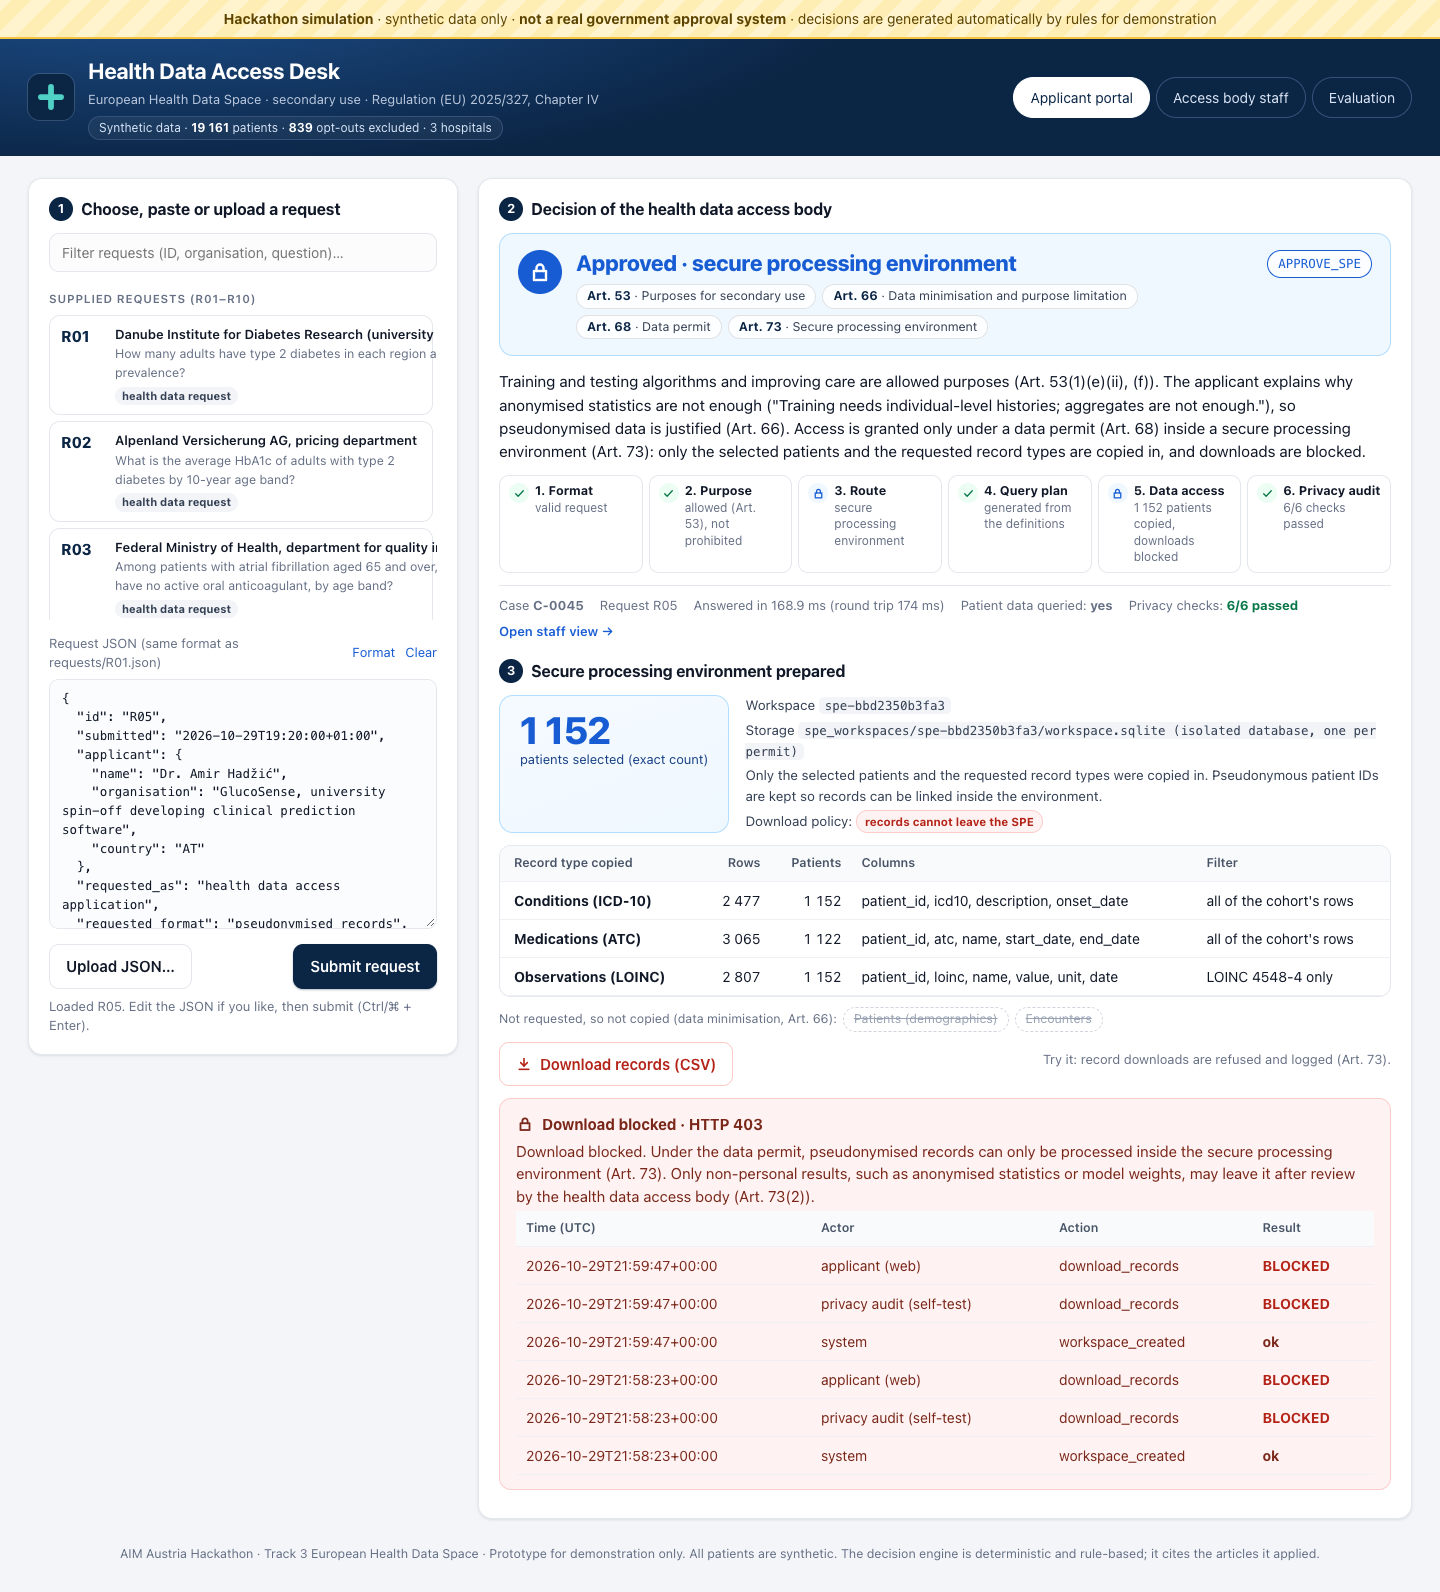
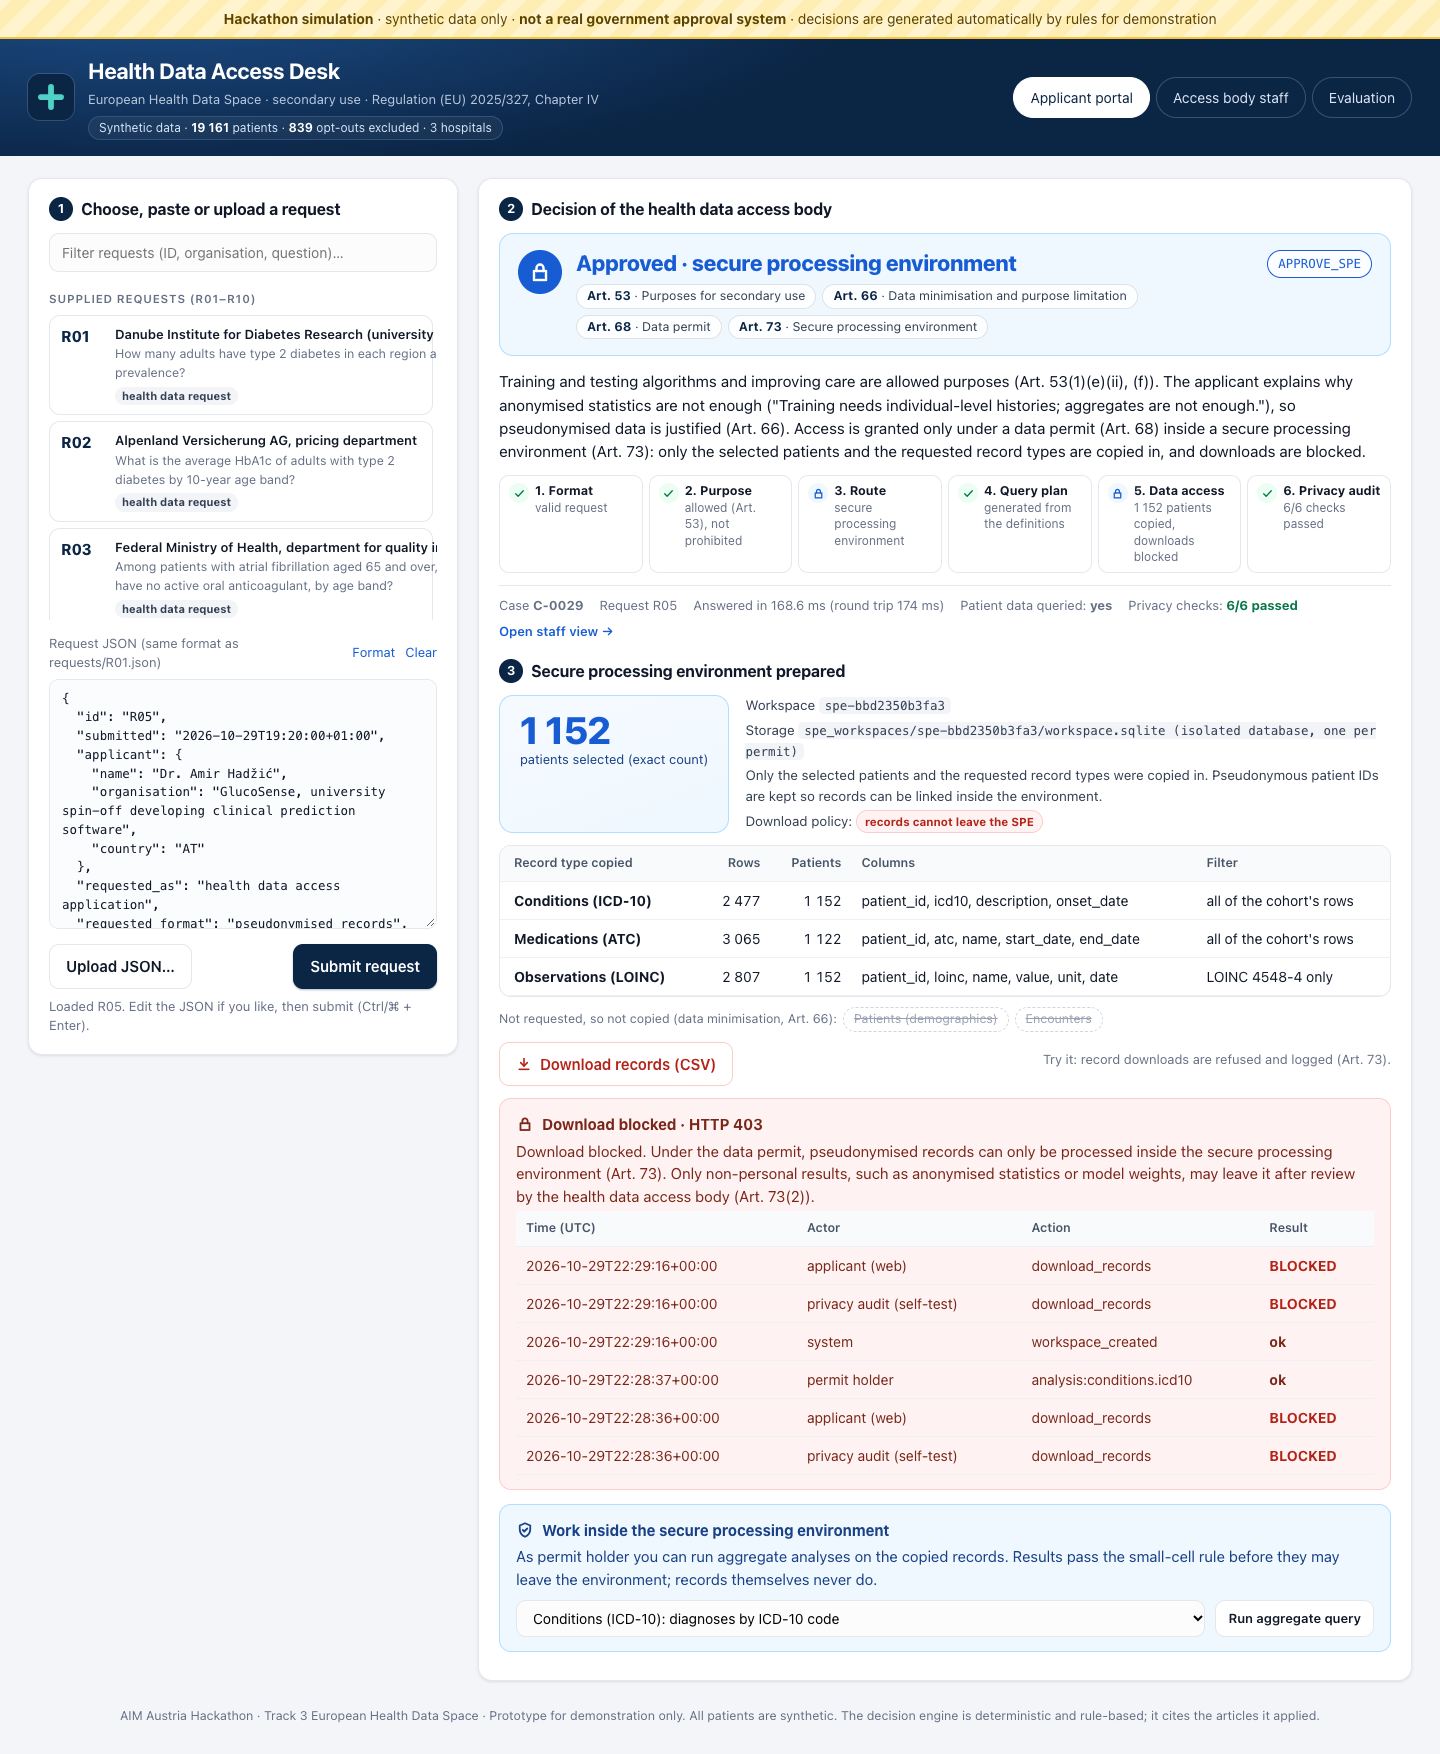
Add SPE analysis console to the UI, show one decimal for means, update docs
Generated with [Devin](https://devin.ai)

Changed region(s): [[0.0, 0.0, 1.0, 0.9849], [0.2188, 0.9541, 0.3125, 0.9849], [0.0938, 0.9541, 0.1562, 0.9849]]

diff --git a/track3-ehds/web/app.js b/track3-ehds/web/app.js
@@ -336,13 +336,14 @@ function renderStatistics(root, res, view) {
   for (const c of res.columns) {
     if (c.type === "count") max[c.id] = Math.max(1, ...res.rows.map(r => typeof r.cells[c.id] === "number" ? r.cells[c.id] : 0));
   }
+  const show = (c, v) => (c.type === "count" ? fmt(v) : Number(v).toFixed(1));  // one decimal, also for 7.0
   const cell = (c, v) => {
     if (isMasked(v)) return el("td", { class: "num" }, masked(v));
-    if (c.type !== "count" && c.type !== "percent") return el("td", { class: "num", text: fmt(v) });
+    if (c.type !== "count" && c.type !== "percent") return el("td", { class: "num", text: show(c, v) });
     const width = c.type === "percent" ? Math.min(100, v) : (100 * v) / max[c.id];
     const bar = el("span", { class: `bar${c.type === "percent" ? " pct" : ""}` });
     bar.style.width = `${Math.max(2, width)}%`;
-    return el("td", { class: "num" }, el("div", { class: "cellbar" }, el("span", { class: "track" }, bar), el("span", { text: fmt(v) })));
+    return el("td", { class: "num" }, el("div", { class: "cellbar" }, el("span", { class: "track" }, bar), el("span", { text: show(c, v) })));
   };
   const head = el("tr", {},
     (res.dimensions.length ? res.dimensions : [{ label: "Group" }]).map(d => el("th", { text: d.label })),
@@ -419,6 +420,37 @@ function renderSpe(root, res) {
   } }, icon("download"), "Download records (CSV)");
   root.append(el("div", { class: "actions" }, btn,
     el("span", { class: "hint", text: "Try it: record downloads are refused and logged (Art. 73)." })), out);
+
+  // aggregate analysis inside the SPE by the permit holder; only the disclosure-checked output may leave
+  const ANALYSES = [["conditions", "icd10", "diagnoses by ICD-10 code"], ["medications", "atc", "prescriptions by ATC code"],
+    ["observations", "loinc", "measurements by LOINC code"], ["encounters", "type", "encounters by type"],
+    ["encounters", "primary_icd10", "stays by main diagnosis"], ["encounters", "data_holder", "encounters by hospital"],
+    ["patients", "sex", "patients by sex"], ["patients", "region", "patients by region"]];
+  const options = ANALYSES.filter(([t]) => t in res.tables);
+  if (!options.length || !res.permit_token) return;
+  const select = el("select", { id: "spe-analysis", class: "search" },
+    options.map(([t, c, label]) => el("option", { value: `${t}.${c}`, text: `${TABLE_TITLES[t]}: ${label}` })));
+  const resultBox = el("div", { id: "spe-analysis-result" });
+  const run = el("button", { class: "btn secondary small", id: "spe-analyse-btn", type: "button", onclick: async () => {
+    const [table, column] = select.value.split(".");
+    const r = await api(`/api/spe/${res.workspace_id}/analyse`, { method: "POST",
+      headers: { "Content-Type": "application/json", "X-Permit-Token": res.permit_token }, body: JSON.stringify({ table, column }) });
+    if (!r.ok) { resultBox.replaceChildren(el("div", { class: "callout amber" }, el("p", { text: (r.body && r.body.message) || `HTTP ${r.status}` }))); return; }
+    const rows = r.body.rows;
+    resultBox.replaceChildren(el("div", { class: "table-wrap" }, el("table", { id: "spe-analysis-table" },
+      el("thead", {}, el("tr", {}, el("th", { text: column }), el("th", { class: "num", text: "Patients" }))),
+      el("tbody", {}, rows.map(x => el("tr", {}, el("td", { text: String(x.value) }),
+        el("td", { class: "num" }, isMasked(x.patients) ? masked(x.patients) : fmt(x.patients))))))),
+      el("p", { class: "hint", text: r.body.note }),
+      el("div", { class: "result-actions" }, el("button", { class: "btn secondary small", type: "button", onclick: () =>
+        downloadCsv({ dimensions: [{ label: column }], columns: [{ id: "p", label: "Patients" }],
+          rows: rows.map(x => ({ group: [String(x.value)], label: String(x.value), cells: { p: x.patients } })) },
+          { request_id: `${res.workspace_id}-${table}-${column}` }) }, icon("download"), "Export aggregated result (CSV)")));
+  } }, "Run aggregate query");
+  root.append(el("div", { class: "callout blue spe-console" },
+    el("h3", {}, icon("shield"), "Work inside the secure processing environment"),
+    el("p", { text: "As permit holder you can run aggregate analyses on the copied records. Results pass the small-cell rule before they may leave the environment; records themselves never do." }),
+    el("div", { class: "actions" }, select, run), resultBox));
 }
 
 // ------------------------------------------------------------------ staff

diff --git a/track3-ehds/web/styles.css b/track3-ehds/web/styles.css
@@ -208,6 +208,9 @@ tbody tr:hover td { background: #fcfcfd; }
 .not-copied { display: flex; flex-wrap: wrap; gap: 6px; align-items: center; margin: 10px 0 2px; font-size: 12.5px; color: var(--muted); }
 .not-copied .off { border: 1px dashed #d0d5dd; border-radius: 999px; padding: 2px 10px; color: #98a2b3; text-decoration: line-through; }
 .blocked { margin-top: 12px; }
+.spe-console { margin-top: 14px; }
+.spe-console select { margin: 0; flex: 1; min-width: 220px; }
+.spe-console .table-wrap { margin-top: 10px; max-height: 260px; background: #fff; }
 
 /* ---------------------------------------------------------------- staff */
 .cases-wrap { overflow-x: auto; }

diff --git a/track3-ehds/README.md b/track3-ehds/README.md
@@ -32,8 +32,8 @@ Then open **http://127.0.0.1:8000**. Use `python3 -m desk serve --port 8080` to 
 | Start the web app | `python3 -m desk` |
 | Evaluate R01–R10 three times against `expected.json` | `python3 -m desk evaluate` (add `--save` to write `reports/`) |
 | Same evaluation through the running web server | `python3 -m desk evaluate --url http://127.0.0.1:8000` |
-| Unit and integration tests (76) | `python3 -m unittest discover -s tests -t .` |
-| Browser end-to-end test (20 checks, needs Node ≥ 22 and Chrome) | `node tests/e2e/browser_flow.mjs http://127.0.0.1:8000` |
+| Unit and integration tests (87) | `python3 -m unittest discover -s tests -t .` |
+| Browser end-to-end test (22 checks, needs Node ≥ 22 and Chrome) | `node tests/e2e/browser_flow.mjs http://127.0.0.1:8000` |
 | Process one file on the command line | `python3 -m desk run new_requests/N01.json [--staff]` |
 
 ## Results on the 10 supplied requests
@@ -226,8 +226,11 @@ If any check fails, the answer is **withheld** rather than released.
   - The model's JSON plan must pass the same IR validator before any query. Unknown codes are flagged, and
     staff see *"LLM-assisted, staff review recommended"*.
   - Decisions are never delegated to the model.
-  - **This path has only been tested with a mocked model** (`tests/test_llm_fallback.py`). No API key was
-    used during development.
+  - Tested over real HTTP against a local server that speaks both wire formats, Anthropic Messages and OpenAI
+    Chat Completions (`tests/test_llm_http.py`). The test covers headers, request bodies, response parsing and
+    fail-closed behaviour on provider errors. `DESK_LLM_BASE_URL` points it at another endpoint, e.g. an
+    EU-hosted gateway. A run against the real provider still needs your API key; none was available during
+    development.
 
 ## New test requests (not in the challenge repository)
 
@@ -239,9 +242,10 @@ If any check fails, the answer is **withheld** rather than released.
 | [N04](new_requests/N04.json) | credit scoring → prohibited | `REJECT`, Art. 54(1)(b) |
 | [N05](new_requests/N05.json) | latest eGFR threshold (< 45), sex × age band, percentages | 6 cells, e.g. female 80+: 89 / 48 / 53.9 % |
 | [N06](new_requests/N06.json) | plain English only ("type 2 diabetes", "statin") → vocabulary codes E11*, C10AA* | per region, e.g. Wien 263 / 109 / 41.4 % |
-| [N07](new_requests/N07.json) | unsupported derived value (length of stay) | approved, **no numbers produced**, clear reason |
+| [N07](new_requests/N07.json) | derived value: mean and median length of stay (end_date − start_date), by hospital | Nord 421 stays / 7.4 / 7.0 days, Süd 382 / 7.6 / 8.0, West 276 / 7.6 / 8.0 |
+| [N08](new_requests/N08.json) | maximum length of stay | approved, **refused**: a maximum describes a single patient |
 
-`tests/test_new_requests.py` checks N01–N06 against an independent brute-force calculation that reads the
+`tests/test_new_requests.py` checks N01–N07 against an independent brute-force calculation that reads the
 CSV files directly. That calculation shares no code with the desk.
 
 ## Tests
@@ -279,12 +283,20 @@ CSV files directly. That calculation shares no code with the desk.
   - "first" or "most" are never silently dropped.
 - `tests/test_supplied_requests.py`: R01–R10 against `expected.json`, zero queries for rejections, results
   independent of ID and applicant, determinism, unchanged challenge files.
-- `tests/test_llm_fallback.py`: only request text is sent, invalid proposals are refused, the model is not
-  called when the rules succeed.
-- `tests/e2e/browser_flow.mjs`: headless Chrome through the DevTools protocol (no npm packages), 20 checks:
-  - the demo flow: R10 rejection, R08/R01 statistics, R05 SPE with blocked download and access log, N01,
+- `tests/test_llm_fallback.py`, `tests/test_llm_http.py`: only request text is sent, invalid proposals are
+  refused, the model is not called when the rules succeed, both provider wire formats work over HTTP, and
+  provider errors fail closed.
+- Derived values and persistence:
+  - length of stay is suppressed below 10 distinct patients, even when there are more stays;
+  - minimum and maximum are refused;
+  - a period named only in the question is refused;
+  - the case register and SPE access log survive a restart;
+  - SPE analyses need the permit token and mask small cells.
+- `tests/e2e/browser_flow.mjs`: headless Chrome through the DevTools protocol (no npm packages), 22 checks:
+  - the demo flow: R10 rejection, R08/R01 statistics, R05 SPE with blocked download, access log and an
+    aggregate analysis inside the SPE, N01,
   - the processing steps and the CSV export,
-  - N07's clear refusal,
+  - N07 length of stay and N08's refusal,
   - file upload, Ctrl+Enter, pasted and invalid JSON,
   - an XSS payload, which is rendered as text and never as HTML,
   - the staff view and the evaluation tab,
@@ -297,13 +309,17 @@ CSV files directly. That calculation shares no code with the desk.
 
 - **Supported phrasings.** The rule-based interpreter supports the shapes above and many variations, such as
   hospital or year grouping, thresholds on the latest measurement, onset or start-date filters,
-  "at least N stays", and/or/not, and plain-English vocabulary terms. Phrasings outside this grammar are
-  refused with an explanation rather than guessed (N07). The optional LLM fallback is meant to widen
-  coverage, but it is untested against a live model.
-- **Unsupported computations:** derived values such as length of stay, date differences, incidence over
-  person-time and statistics other than counts, percentages, means and medians.
-- **Decisions are keyword rules.** They cite their evidence, but adversarial wording could evade them. A real
-  access body would keep human review.
+  "at least N stays", and/or/not, plain-English vocabulary terms, and length of stay and age as values.
+  Phrasings outside this grammar are refused with an explanation rather than guessed. The optional LLM
+  fallback widens coverage; it has been tested over HTTP against a local API-compatible server, not
+  against the real provider.
+- **Statistics that are refused on purpose:** minimum and maximum, because they reveal single patients
+  (N08). Incidence over person-time and other statistics beyond counts, percentages, means and medians
+  are not supported.
+- **Decisions are keyword rules with a safety net.** Explicit Art. 54 rules reject. A second layer sends
+  any wording with commercial, insurance, employment or individual-level signals to staff review
+  (`NO_DECISION`) instead of approving it. That layer produces no false flags on R01–R10 or N01–N08.
+  Determined adversarial wording could still get through, so a real access body would keep human review.
 - **Art. 53(2)** (purposes (a)–(c) reserved for public bodies) is only a staff note, because the challenge
   forbids deciding by applicant identity.
 - **Defaults when a term is undefined.** "Adults" or "children" without a definition default to 18+ and
@@ -312,9 +328,12 @@ CSV files directly. That calculation shares no code with the desk.
 - **Small-cell rule.** It is applied exactly as specified (counts, percentages, means). There is no
   secondary suppression, and encounter counts from fewer than 10 distinct patients are only flagged to
   staff.
-- **Simulated SPE.** The SPE is a local SQLite file per permit, with no remote desktop, user accounts or
-  egress review workflow. The case register is in memory and is lost on restart. There is no login and no
-  identity verification.
+- **SPE (simulated).** The SPE is a local SQLite file per permit.
+  - Each permit issues a token (only its hash is stored). The permit holder can run whitelisted aggregate
+    analyses inside the SPE and export them after the small-cell check.
+  - Record downloads are always blocked.
+  - The case register (`state/cases.jsonl`, no patient data) and the SPE access log are persisted.
+  - There is no remote desktop, no login and no identity verification beyond the permit token.
 
 ## Two-minute demo script
 
